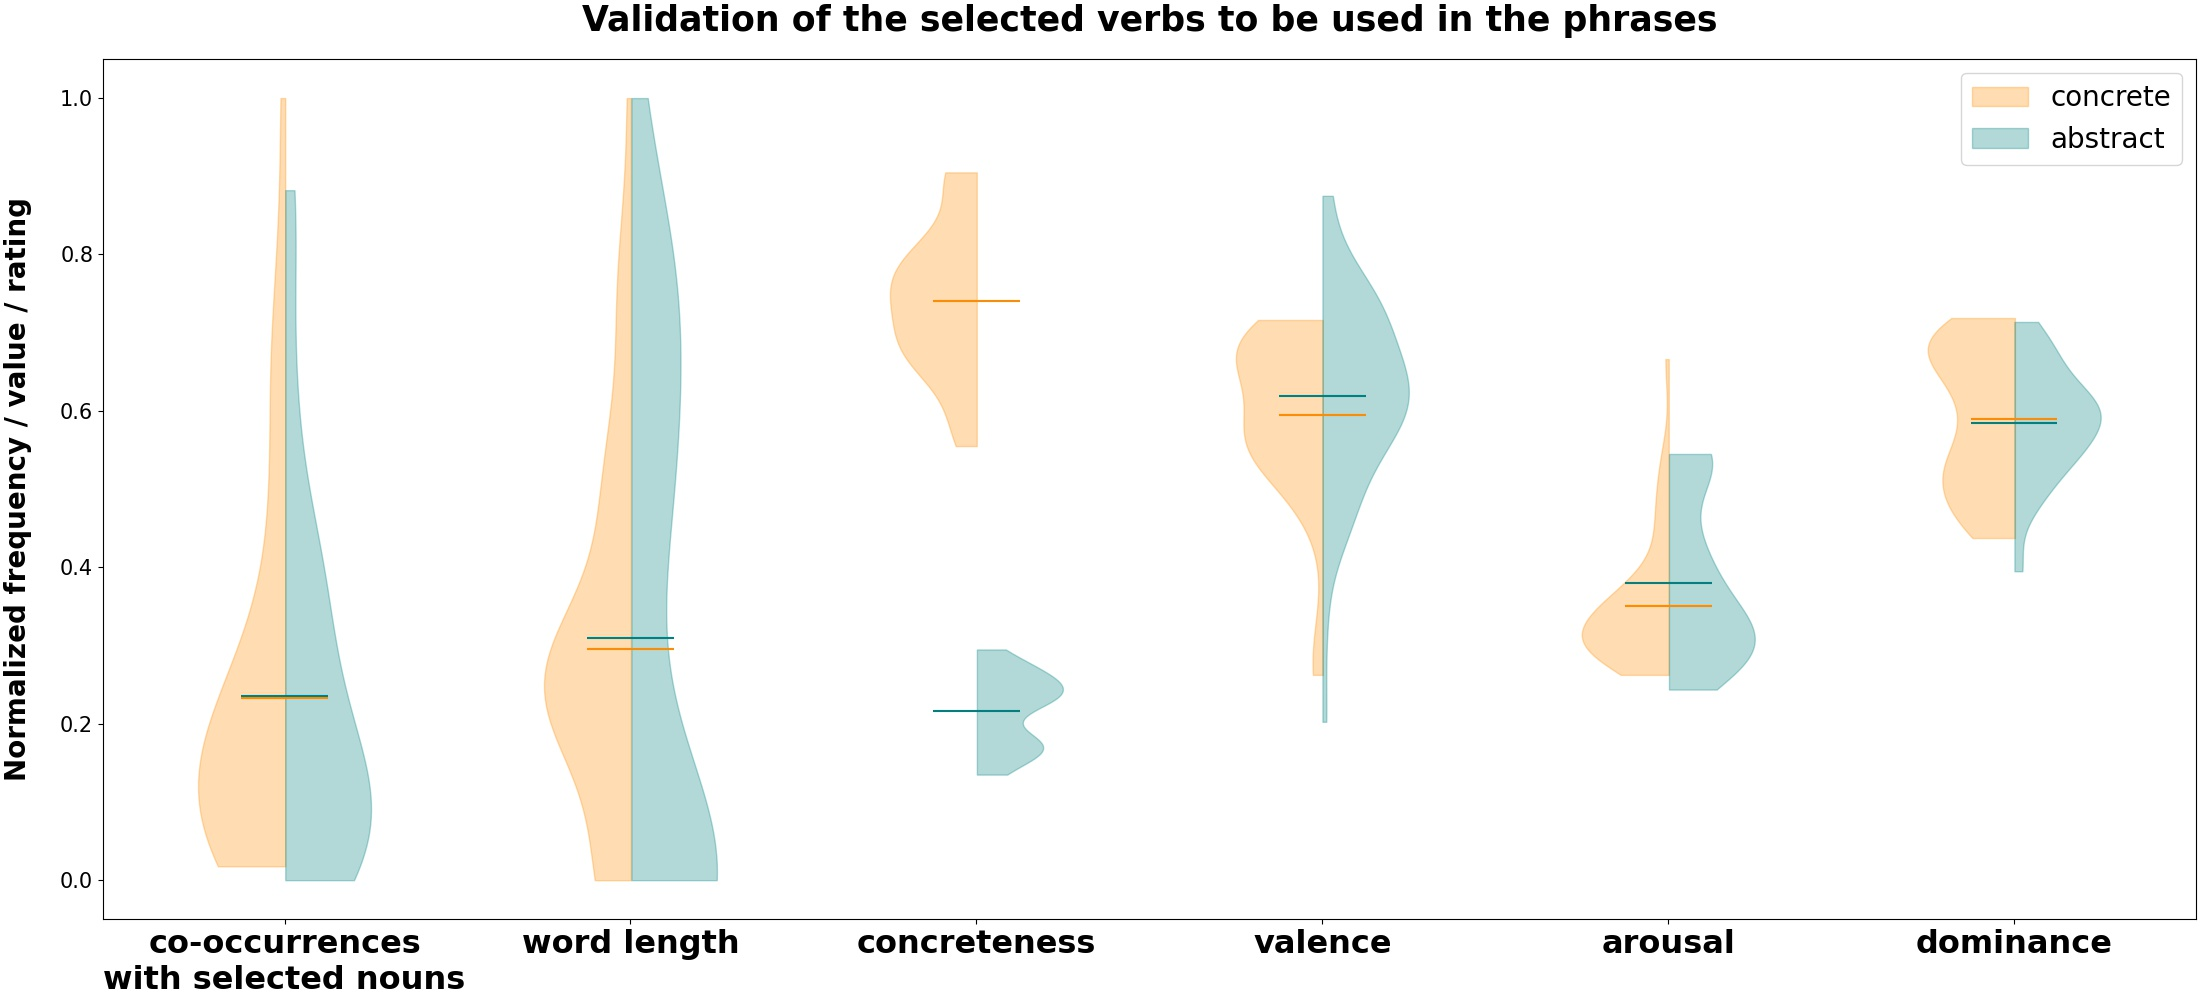
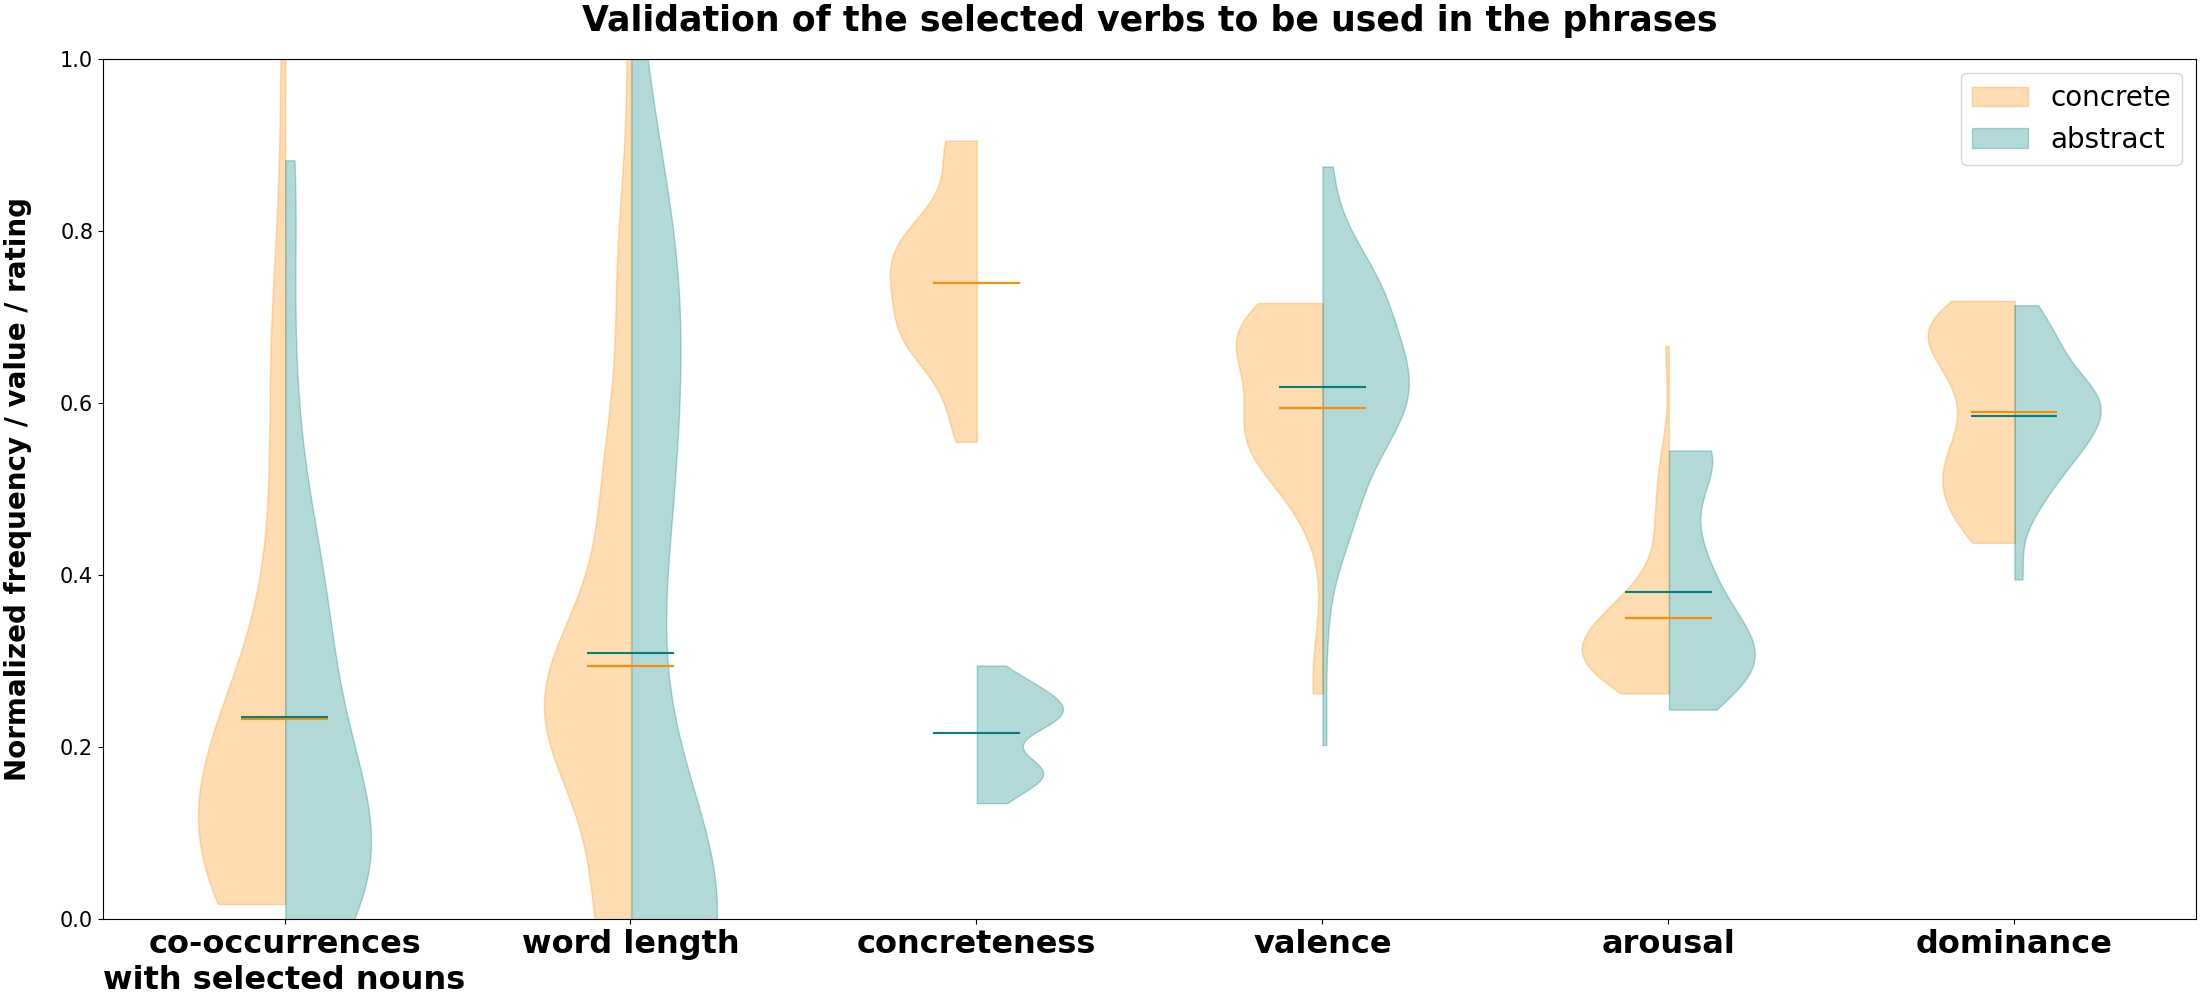
added plots

diff --git a/04_validate_list_phrases.py b/04_validate_list_phrases.py
@@ -155,6 +155,7 @@ for b in v2['bodies']:
     b.get_paths()[0].vertices[:, 0] = numpy.clip(b.get_paths()[0].vertices[:, 0], m, numpy.inf)
     b.set_color('teal')
 v2['cmeans'].set_color('teal')
+ax.set_ylim(bottom=0., top=1.)
 ax.legend(
           [v1['bodies'][0], v2['bodies'][0]],
           ['concrete', 'abstract'],
@@ -222,6 +223,7 @@ for sense, sense_averages in human_data.items():
         b.get_paths()[0].vertices[:, 0] = numpy.clip(b.get_paths()[0].vertices[:, 0], m, numpy.inf)
         b.set_color('teal')
     v2['cmeans'].set_color('teal')
+    ax.set_ylim(bottom=0., top=1.)
     ax.legend(
               [v1['bodies'][0], v2['bodies'][0]],
               ['concrete', 'abstract'],
@@ -289,6 +291,7 @@ for sense, sense_averages in human_data.items():
         b.get_paths()[0].vertices[:, 0] = numpy.clip(b.get_paths()[0].vertices[:, 0], m, numpy.inf)
         b.set_color('teal')
     v2['cmeans'].set_color('teal')
+    ax.set_ylim(bottom=0., top=1.)
     ax.legend(
               [v1['bodies'][0], v2['bodies'][0]],
               ['concrete', 'abstract'],
